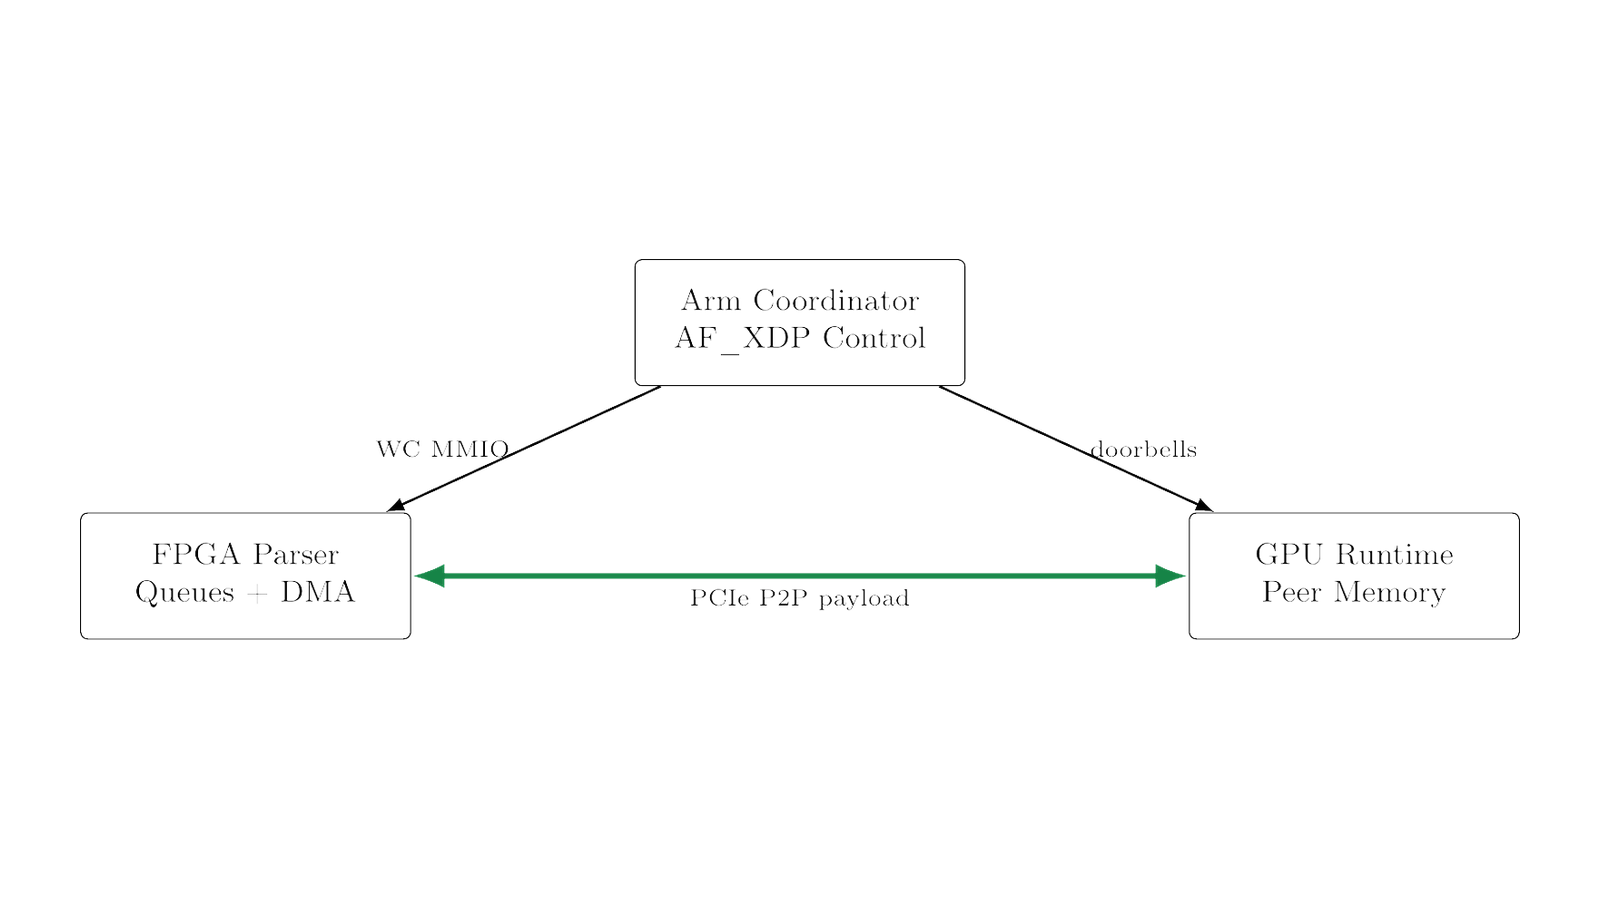
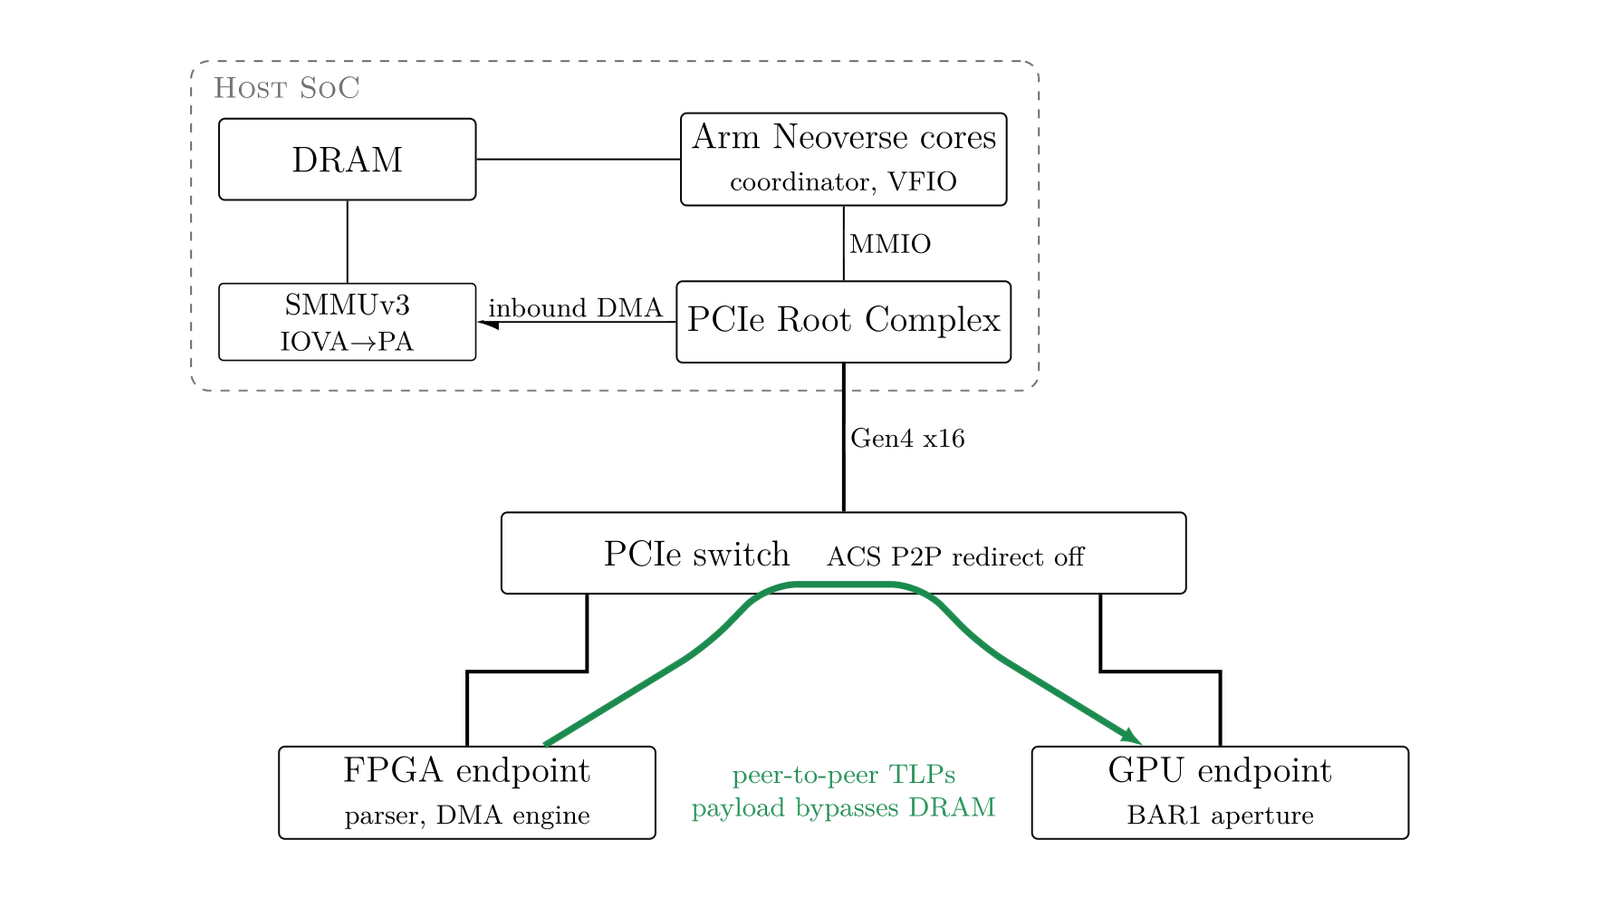
Home: domain-accurate project thumbnails (Entra OAuth/Graph flow, Arm two-stage translation, EL stack, PCIe P2P topology)

diff --git a/landing/src/content/site.ts b/landing/src/content/site.ts
@@ -53,7 +53,7 @@ export const FOCUS = [
 export const FEATURED = {
   summary: "`v1.0.0`. Entra ID collection (`--live-entra`) runs non-interactively and daemonless via the Microsoft Graph API, replacing ad hoc `az ad` or PowerShell queries with a repeatable run. It pages users, directory role assignments, Conditional Access policies and groups via `@odata.nextLink`, and that is the complete set. `$select` retrieves only the required attributes. Output is normalised to a common JSON schema for separation-of-duties, privileged-access and migration-drift assertions. Auth is `iato.pem` or Kubernetes workload identity, with tokens held in process memory only, never persisted. Enforce least privilege on the app registration: `.default` returns whatever consent has been granted.",
   name: "Identity control evaluation for Entra ID",
-  thumb: { src: "/thumbs/thumb-entra.png", alt: "Entra ID collection through Microsoft Graph, normalised to a common JSON schema for separation of duties, privileged access and migration drift assertions" },
+  thumb: { src: "/thumbs/thumb-entra.png", alt: "OAuth client credentials token flow, Microsoft Graph endpoints over the Entra ID tenant, and normalised JSON feeding separation of duties, privileged access and drift assertions" },
   fullName: "Intent-to-Auditable-Trust-Object Index",
   repo: "https://github.com/whatheheckisthis/Intent-to-Auditable-Trust-Object-Index",
   readmeText: "Learn More",
@@ -65,7 +65,7 @@ export const FEATURED = {
 export const PROJECTS = [
   {
     name: "Stage 2 translation and TLB maintenance",
-    thumb: { src: "/thumbs/thumb-stage2.png", alt: "Stage 2 walker in SystemVerilog cross checked against a Sail reference model, with TLA+ verified TLBI unmap ordering" },
+    thumb: { src: "/thumbs/thumb-stage2.png", alt: "Two-stage translation VA to IPA to PA with the Stage 2 table walk, a VMID tagged TLB, and the break-before-make TLBI unmap sequence" },
     tag: "Virtualisation",
     summary:
       "Part of my Correctness Framework for Heterogeneous Accelerator Architectures. Defines, verifies and implements `Stage 2` address translation and TLB maintenance for a hypervisor at `EL2`. A Sail reference model specifies the walk, a TLA+ model proves the required `TLBI` ordering for unmapping a guest page, and a SystemVerilog walker and VMID tagged TLB are cross checked against the reference across 10,000 probes with no mismatches.",
@@ -73,7 +73,7 @@ export const PROJECTS = [
   },
   {
     name: "AArch64 virtualisation study",
-    thumb: { src: "/thumbs/thumb-aarch64.png", alt: "Observational equivalence and congruence proofs preserving behaviour across asynchronous accelerator offload and Stage 2 memory state" },
+    thumb: { src: "/thumbs/thumb-aarch64.png", alt: "AArch64 exception levels EL0 to EL3 with Stage 1 and Stage 2 translation, an accelerator behind SMMUv3, and observational equivalence between host and offloaded traces" },
     tag: "Virtualisation",
     summary:
       "Part of my Correctness Framework for Heterogeneous Accelerator Architectures. Formally analysed `Stage 2` address translation and memory state transformations to ensure data integrity, race concurrency, and ownership preservation under virtualised hardware semantics. Applied observational equivalence and congruence proofs to `VLA` execution models, proving that asynchronous accelerator offloading preserves observable program behavior.",
@@ -83,7 +83,7 @@ export const PROJECTS = [
   },
   {
     name: "FPGA to GPU peer-to-peer pipeline",
-    thumb: { src: "/thumbs/thumb-p2p.png", alt: "Arm coordinator driving an FPGA parser and GPU runtime with a PCIe peer-to-peer payload path" },
+    thumb: { src: "/thumbs/thumb-p2p.png", alt: "PCIe topology: host SoC with root complex and SMMUv3, a PCIe switch, and peer-to-peer TLPs from the FPGA endpoint to the GPU BAR1 aperture" },
     tag: "HPC",
     summary:
       "Part of my Correctness Framework for Heterogeneous Accelerator Architectures. Designed and evaluated low-latency FPGA GPU `PCIe P2P` memory access paths, optimising `DMA`, `IOMMU/SMMU` address translation, and cache coherence across heterogeneous interconnects.",
